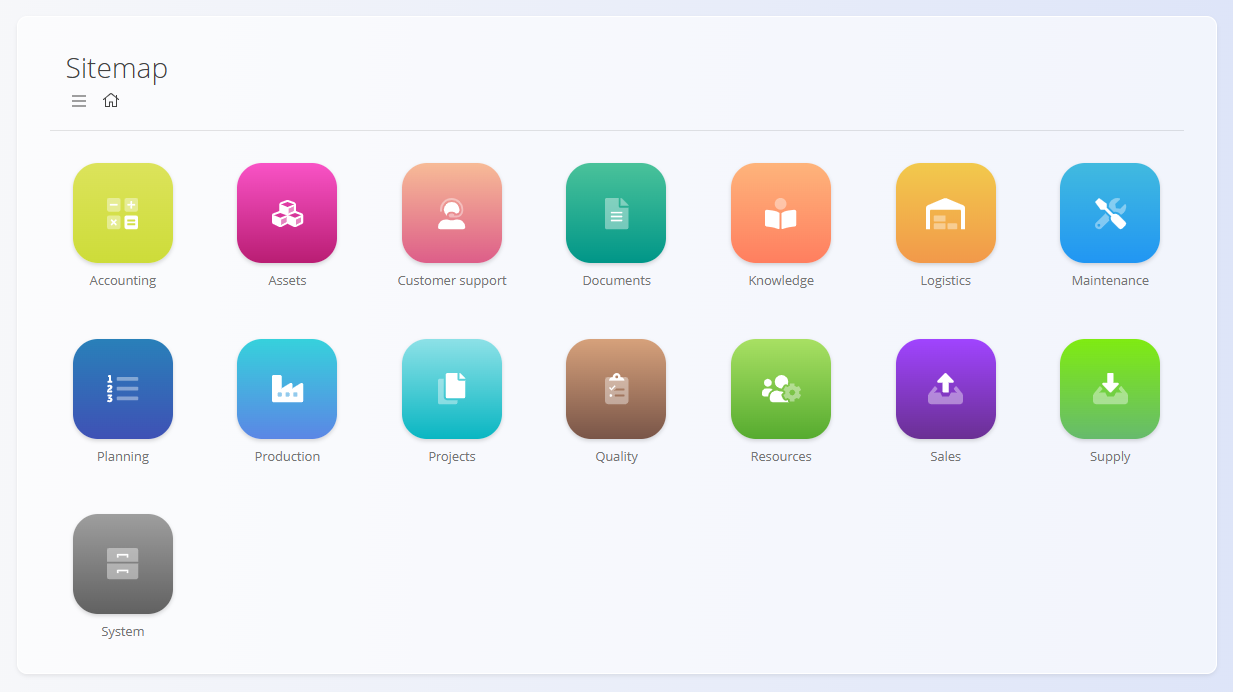
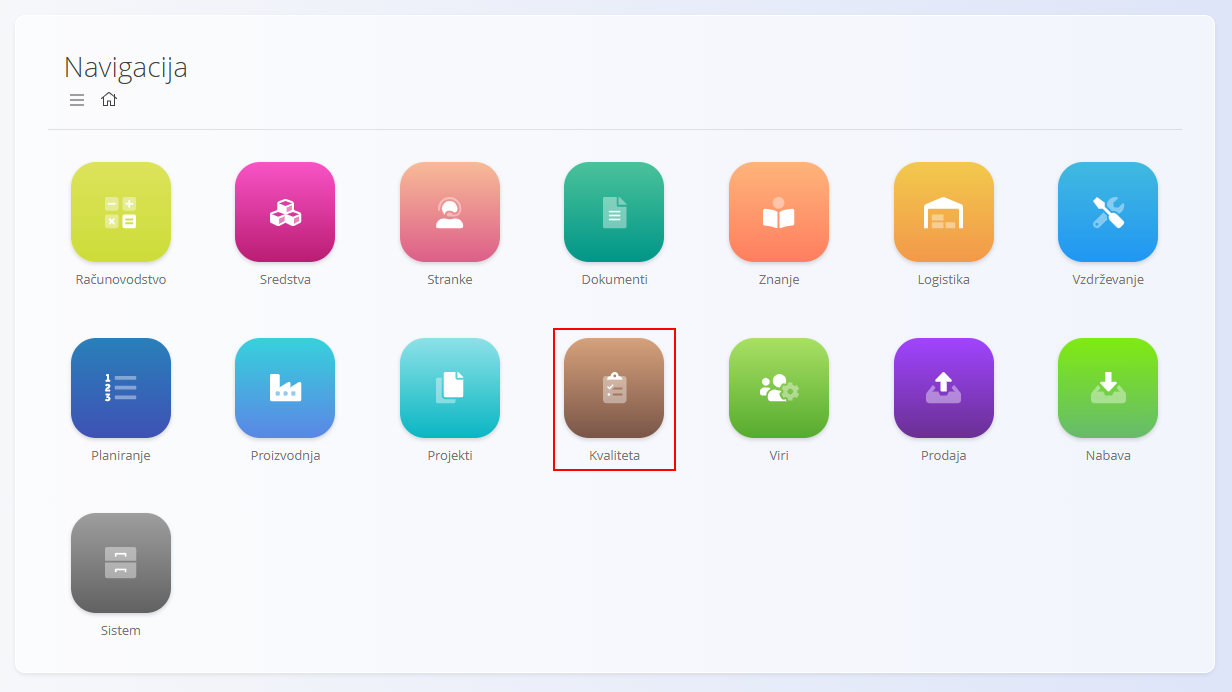
docs: updated images in domain docs in Slovenian

diff --git a/sl/Domene/Logistika/Logistika.md b/sl/Domene/Logistika/Logistika.md
@@ -11,7 +11,7 @@ Medtem ko področje **[Materiali](../Sredstva/Materiali.md)** določa, *kaj* obs
 
 Za dostop do tega področja pojdite na **Logistika** v [navigaciji](../../Skupno/UI/Navigacija.md).
 
-![Področje logistike](Images/LogisticsSitemap.png "Področje logistike")
+![Področje logistike](Images/LogisticsSitemapSL.png "Področje logistike")
 
 > [!NOTE]
 > Razpoložljiva področja so odvisna od konfiguracije podjetja in poslovnega modela.
@@ -26,13 +26,13 @@ Področje je razdeljeno na več funkcionalnih sklopov:
 - **[Pregledi](#pregledi)** – analitični pregledi porabe, izdaj in razporeditve zaloge  
 - **[Šifranti](#sifranti)** – konfiguracija skladišč, lokacij in logističnih pravil  
 
-![Pregled področja logistike](Images/LogisticsDomainOverview.png "Pregled področja logistike")
+![Pregled področja logistike](Images/LogisticsDomainOverviewSL.png "Pregled področja logistike")
 
 ## Nadzorna plošča
 
 **[Nadzorna plošča](Pregledi/NadzornaPlosca.md)** omogoča hiter pregled logistične učinkovitosti in aktivnosti v skladiščih. Prikazuje operativne kazalnike (npr. število prevzemov in izdaj, odprte inventure, neskladja), ki uporabnikom pomagajo razumeti trenutno obremenitev, premike zaloge in aktivne skladiščne procese.
 
-![Nadzorna plošča logistike](Images/Dashboard.png "Nadzorna plošča logistike")
+![Nadzorna plošča logistike](Images/DashboardSL.png "Nadzorna plošča logistike")
 
 Nadzorna plošča služi kot vstopna točka za skladiščne vodje in operaterje, ki potrebujejo takojšen vpogled v stanje logističnih operacij.
 
@@ -40,13 +40,13 @@ Nadzorna plošča služi kot vstopna točka za skladiščne vodje in operaterje,
 
 Razdelek **[Zaloga](Pregledi/Zaloga.md)** omogoča operativni vpogled v materiale in njihove trenutne količine v skladiščih. Prikazuje vse materiale po skladiščih in lokacijah, vključno z razpoložljivimi količinami, serijami, serijskimi številkami in fizičnimi pozicijami. Ta pogled je samo za branje.
 
-![Zaslon zaloge](Images/Stock.png "Zaslon zaloge")
+![Zaslon zaloge](Images/StockSL.png "Zaslon zaloge")
 
 ## Dokumenti
 
 Razdelek **Dokumenti** vsebuje vse logistične transakcije, ki **spreminjajo količino zaloge** ali **beležijo skladiščne aktivnosti**.
 
-![Logistični dokumenti](Images/LogisticsDomainDocuments.png "Logistični dokumenti")
+![Logistični dokumenti](Images/LogisticsDomainDocumentsSL.png "Logistični dokumenti")
 
 Razpoložljivi logistični dokumenti vključujejo:
 
@@ -73,7 +73,7 @@ Vsak od teh dokumentov prispeva k sledljivosti in natančnosti skladiščnih ope
 
 Razdelek **Pregledi** ponuja analitična orodja za razumevanje premikov zaloge, vzorcev porabe in razporeditve po lokacijah.
 
-![Pregledi logistike](Images/LogisticsDomainViews.png "Pregledi logistike")
+![Pregledi logistike](Images/LogisticsDomainViewsSL.png "Pregledi logistike")
 
 Razpoložljivi pregledi vključujejo:
 
@@ -87,7 +87,7 @@ Ti zasloni **ne ustvarjajo transakcij** – namenjeni so podpori odločanja.
 
 Razdelek **Upravljanje** vsebuje konfiguracijo in osnovne podatke, ki jih uporabljajo vsi logistični procesi.
 
-![Šifranti logistike](Images/LogisticsDomainManagement.png "Šifranti logistike")
+![Šifranti logistike](Images/LogisticsDomainManagementSL.png "Šifranti logistike")
 
 Razpoložljivi šifranti vključujejo:
 

diff --git a/sl/Domene/Vzdrzevanje/Vzdrzevanje.md b/sl/Domene/Vzdrzevanje/Vzdrzevanje.md
@@ -19,7 +19,7 @@ To domeno uporabljate za:
 Do domene Vzdrževanje dostopate prek **Vzdrževanje** v
 [navigaciji](../../Skupno/UI/Navigacija.md).
 
-![Zemljevid domene vzdrževanja](Images/MaintenanceDomainSitemap.png)
+![Zemljevid domene vzdrževanja](Images/MaintenanceDomainSitemapSL.png)
 
 > [!NOTE]
 > Razpoložljive domene so odvisne od konfiguracije in poslovnega modela
@@ -27,7 +27,7 @@ Do domene Vzdrževanje dostopate prek **Vzdrževanje** v
 
 ## Kaj vključuje domena Vzdrževanje?
 
-![Pregled domene vzdrževanja](Images/MaintenanceDomainOverview.png "Pregled domene vzdrževanja")
+![Pregled domene vzdrževanja](Images/MaintenanceDomainOverviewSL.png "Pregled domene vzdrževanja")
 
 Domena je strukturirana v funkcionalna področja za dnevno delo in analizo:
 
@@ -43,7 +43,7 @@ Konfiguracija skupnih struktur, ki se uporabljajo pri vzdrževanju.
 Domena Vzdrževanje uporablja skupne šifrante, ki so deljeni s
 [**Proizvodnjo**](../Proizvodnja/Proizvodnja.md).
 
-![Upravljanje domene vzdrževanja](Images/MaintenanceDomainManagement.png "Upravljanje domene vzdrževanja")
+![Upravljanje domene vzdrževanja](Images/MaintenanceDomainManagementSL.png "Upravljanje domene vzdrževanja")
 
 - **[Procesi](../Proizvodnja/Upravljanje/Procesi.md)** — definicija korakov procesov in verzij, ki se uporabljajo za izvajanje vzdrževalnih operacij.
 - **[Organizacijske enote](../Proizvodnja/Upravljanje/OrganizacijskeEnote.md)** — definicija operativnih enot (npr. vzdrževalni oddelki, servisne ekipe).
@@ -55,12 +55,11 @@ Ti šifranti omogočajo vodenje vzdrževalnih tokov dela in izvajanja prek nalog
 > [!TIP]
 Oglejte si celoten seznam upravljanja: **[Kazalo upravljanja](../../KazaloUpravljanja.md)**.
 
-
 ## Analitika
 
 Spremljanje uspešnosti in zanesljivosti s pomočjo vgrajene analitike.
 
-![Analitika domene vzdrževanja](Images/MaintenanceDomainAnalytics.png "Analitika domene vzdrževanja")
+![Analitika domene vzdrževanja](Images/MaintenanceDomainAnalyticsSL.png "Analitika domene vzdrževanja")
 
 - **[Kazalniki vzdrževanja](Analiza/KazalnikiVzdrzevanja.md)** — kartice KPI in podrobni seznami za MTBF, čas zaznave napake, čas odprave napake, napor in razčlenitev obremenitev.
 

diff --git a/sl/Domene/Nabava/Nabava.md b/sl/Domene/Nabava/Nabava.md
@@ -11,7 +11,7 @@ Medtem ko področje **[Prodaja](../Prodaja/Prodaja.md)** upravlja procese, usmer
 
 Za dostop do področja Nabava pojdite na **Nabava** v [navigaciji](../../Skupno/UI/Navigacija.md).
 
-![Področje Nabava](Images/SupplyDomainSitemap.png "Področje Nabava")
+![Področje Nabava](Images/SupplyDomainSitemapSL.png "Področje Nabava")
 
 > [!NOTE]  
 > Razpoložljiva področja so odvisna od konfiguracije in poslovnega modela posameznega podjetja.
@@ -25,13 +25,13 @@ Področje je organizirano v več funkcionalnih sklopov:
 - **[Pregledi](#pregledi)** – analitični pregledi za spremljanje nabavnih trendov  
 - **[Šifranti](#sifranti)** – nastavitve in osnovni podatki za nabavne procese
 
-![Pregled področja Nabava](Images/SupplyDomainOverview.png "Pregled področja Nabava")
+![Pregled področja Nabava](Images/SupplyDomainOverviewSL.png "Pregled področja Nabava")
 
 ## Dokumenti
 
 Razdelek **Dokumenti** vsebuje nabavne dokumente, ki se uporabljajo za povpraševanje po ponudbah ali za izdajo nabavnih nalogov dobaviteljem.
 
-![Dokumenti nabave](Images/SupplyDomainDocuments.png "Dokumenti nabave")
+![Dokumenti nabave](Images/SupplyDomainDocumentsSL.png "Dokumenti nabave")
 
 Razpoložljivi dokumenti vključujejo:
 
@@ -53,7 +53,7 @@ Omogoča proaktivno planiranje ter preprečuje pomanjkanje ali presežke zalog.
 
 Razdelek **Pregledi** omogoča analitičen vpogled v nabavne naloge in nabavne vzorce. Pregledi so namenjeni samo za branje.
 
-![Pregledi nabave](Images/SupplyDomainsViews.png "Pregledi nabave")
+![Pregledi nabave](Images/SupplyDomainsViewsSL.png "Pregledi nabave")
 
 Razpoložljivi pregledi vključujejo:
 
@@ -66,7 +66,7 @@ Ti pregledi podpirajo analizo in odločanje, vendar **ne ustvarjajo** transakcij
 
 Razdelek **Upravljanje** vsebuje konfiguracijo in osnovne podatke, potrebne za delovanje nabavnih procesov.
 
-![Šifranti nabave](Images/SupplyDomainManagement.png "Šifranti nabave")
+![Šifranti nabave](Images/SupplyDomainManagementSL.png "Šifranti nabave")
 
 Razpoložljive nastavitve in šifranti vključujejo:
 

diff --git a/sl/Domene/Znanje/Znanje.md b/sl/Domene/Znanje/Znanje.md
@@ -11,7 +11,7 @@ Domena se najpogosteje uporablja za **interno dokumentacijo**, gradiva za uvajan
 
 Za dostop do domene pojdite na **Znanje** v [navigaciji](../../Skupno/UI/Navigacija.md).
 
-![Domena Znanje](Images/KnowledgeDomainSitemap.png "Domena Znanje")
+![Domena Znanje](Images/KnowledgeDomainSitemapSL.png "Domena Znanje")
 
 > [!NOTE]  
 > Razpoložljive domene so odvisne od konfiguracije sistema in poslovnega modela podjetja.
@@ -23,7 +23,7 @@ Domena je razdeljena na dve glavni funkcionalni področji:
 - **[Baza znanja](BazaZnanja/BazaZnanja.md)** – uporabniški dostop do objavljenih člankov in dokumentacije  
 - **[Upravljanje](#upravljanje)** – nastavitev strukture in vsebine  
 
-![Pregled domene Znanje](Images/KnowledgeDomainOverview.png "Pregled domene Znanje")
+![Pregled domene Znanje](Images/KnowledgeDomainOverviewSL.png "Pregled domene Znanje")
 
 ## Baza znanja
 
@@ -55,7 +55,7 @@ Tipična uporaba vključuje:
 
 Razdelek **Upravljanje** se uporablja za nastavitev in vzdrževanje strukture domene Znanje. Določa **kako je vsebina organizirana**, ne pa same vsebine.
 
-![Upravljanje Znanja](Images/KnowledgeDomainManagement.png "Upravljanje Znanja")
+![Upravljanje Znanja](Images/KnowledgeDomainManagementSL.png "Upravljanje Znanja")
 
 Upravljanje vključuje naslednja konfiguracijska področja:
 - **[Imeniki](Upravljanje/Imeniki.md)** – organizacijski vsebniki za članke
@@ -69,9 +69,9 @@ Oglejte si celoten seznam upravljanja: **[Kazalo upravljanja](../../KazaloUpravl
 
 **Imeniki** določajo glavno strukturo **Baze znanja**. Vsak imenik predstavlja **temo ali kategorijo** in lahko vsebuje:
 
-- [Članke](Upravljanje/Clanki.md)  
-- [Kazalo](Upravljanje/Kazalo.md) (strukturirano navigacijo)  
-- priloge  
+- [**Članke**](Upravljanje/Clanki.md)  
+- [**Kazalo**](Upravljanje/Kazalo.md) (strukturirano navigacijo)  
+- **Priloge**  
 
 Imeniki omogočajo logično združevanje vsebine (npr. kadrovske smernice, proizvodna navodila, IT dokumentacija).
 

diff --git a/sl/Domene/Kvaliteta/Kvaliteta.md b/sl/Domene/Kvaliteta/Kvaliteta.md
@@ -14,14 +14,14 @@ To domeno uporabite za:
 
 Za dostop do domene **Kvaliteta** se pomaknite na **Kvaliteta** v [navigaciji](../../Skupno/UI/Navigacija.md).
 
-![Zemljevid domene Kvaliteta](Images/QualitySitemap.png)
+![Zemljevid domene Kvaliteta](Images/QualityDomainSitemapSL.png)
 
 > [!NOTE]
 > Razpoložljive domene so odvisne od konfiguracije in poslovnega modela posameznega podjetja.
 
 ## Kaj vključuje domena Kvaliteta?
 
-![Pregled domene Kvaliteta](Images/QualityDomainOverview.png "Pregled domene Kvaliteta")
+![Pregled domene Kvaliteta](Images/QualityDomainOverviewSL.png "Pregled domene Kvaliteta")
 
 Domena je strukturirana v dve funkcionalni področji:
 
@@ -35,4 +35,4 @@ Domena je strukturirana v dve funkcionalni področji:
   - [**Aktivne kontrolne liste**](Pregledi/AktivneKontrolneListe.md) — pregled vseh kontrolnih listov, ki so trenutno v teku ali čakajo na zaključek. Tipični stolpci vključujejo ime kontrolnega lista, proces/sredstvo, odgovorno osebo, čas začetka, rok in status. Pogosta dejanja: odpiranje zapisa, nadaljevanje izvajanja ali označitev kot zaključenega (glede na dovoljenja).
   - [**Zaključene kontrolne liste**](Pregledi/ZakljuceneKontrolneListe.md) — pregled zaključenih kontrolnih listov z rezultati, časovnimi žigi, odgovornimi uporabniki in morebitnimi zabeleženimi neskladnostmi. Podpira filtriranje (časovna obdobja, procesi, organizacijske enote, rezultati) in izvoz za potrebe revizij.
 
-![Pogledi domene Kvaliteta](Images/QualityDomainViews.png "Pogledi domene Kvaliteta")
+![Pogledi domene Kvaliteta](Images/QualityDomainViewsSL.png "Pogledi domene Kvaliteta")

diff --git a/sl/Domene/Sredstva/DomenaSredstve.md b/sl/Domene/Sredstva/DomenaSredstve.md
@@ -16,14 +16,14 @@ Ta domena združuje vse elemente, potrebne za definiranje, cenitev, organizacijo
 
 Za dostop do domene Sredstva pojdite na **Sredstva** v [navigaciji](../../Skupno/UI/Navigacija.md).
 
-![Domena Sredstva](Images/AssetsSitemap.png)
+![Domena Sredstva](Images/AssetsSitemapSL.png)
 
 > [!NOTE]  
 > Razpoložljive domene so odvisne od konfiguracije sistema in poslovnega modela podjetja.
 
 ## Kaj vključuje domena Sredstva?
 
-![Pregled domene Sredstva](Images/AssetsDomain.png "Pregled domene Sredstva")
+![Pregled domene Sredstva](Images/AssetsDomainOverviewSL.png "Pregled domene Sredstva")
 
 Domena je razdeljena na več funkcionalnih področij:
 
@@ -43,7 +43,7 @@ Domena je razdeljena na več funkcionalnih področij:
   - **[Merske enote](../../Skupno/Upravljanje/MerskeEnote.md)**
 Te nastavitve določajo strukturo in vedenje sredstev ter način njihove cenitve.
 
-![Upravljanje domene Sredstva](Images/AssetsDomainManagement.png)
+![Upravljanje domene Sredstva](Images/AssetsDomainManagementSL.png)
 
 ## Sredstva vs. Materiali
 

diff --git a/sl/Domene/Sredstva/Materiali.md b/sl/Domene/Sredstva/Materiali.md
@@ -9,7 +9,7 @@
 
 Za dostop do materialov pojdite na **Sredstva / Materiali** v [navigaciji](../../Skupno/UI/Navigacija.md).
 
-![Pregled domene Sredstva](Images/MaterialsSitemap.png "Pregled domene Sredstva")
+![Pregled domene Sredstva](Images/MaterialsSitemapSL.png "Pregled domene Sredstva")
 
 ## Kategorije materialov
 
@@ -20,7 +20,7 @@ Razdelek **Materiali** vsebuje štiri glavne šifrante, ki predstavljajo osnovne
 - **[Surovine](Materiali/Surovine.md)** – Osnovni vhodni materiali, uporabljeni v začetnih fazah proizvodnje, kot so les, kovinske plošče ali drugi temeljni materiali.
 - **[Repro materiali](Materiali/ReproMateriali.md)** – Povratne ali pomožne komponente, ki se uporabljajo za podporo proizvodnji ali internim dejavnostim.
 
-![Področje Materiali](Images/MaterialsSubdomain.png "Področje Materiali")
+![Področje Materiali](Images/MaterialsSubdomainSL.png "Področje Materiali")
 
 ## Dodatni šifranti, povezani z materiali
 Ti šifranti podpirajo upravljanje in natančno definicijo štirih glavnih vrst materialov:
